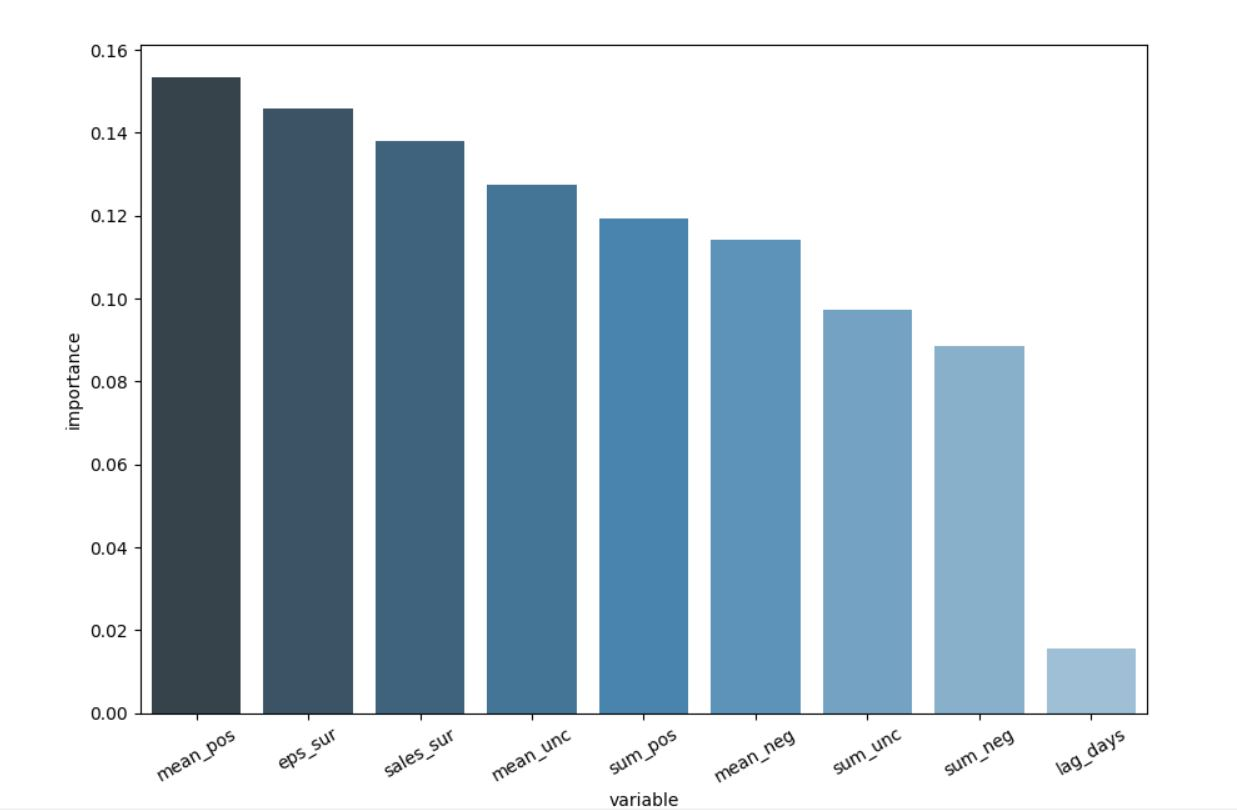
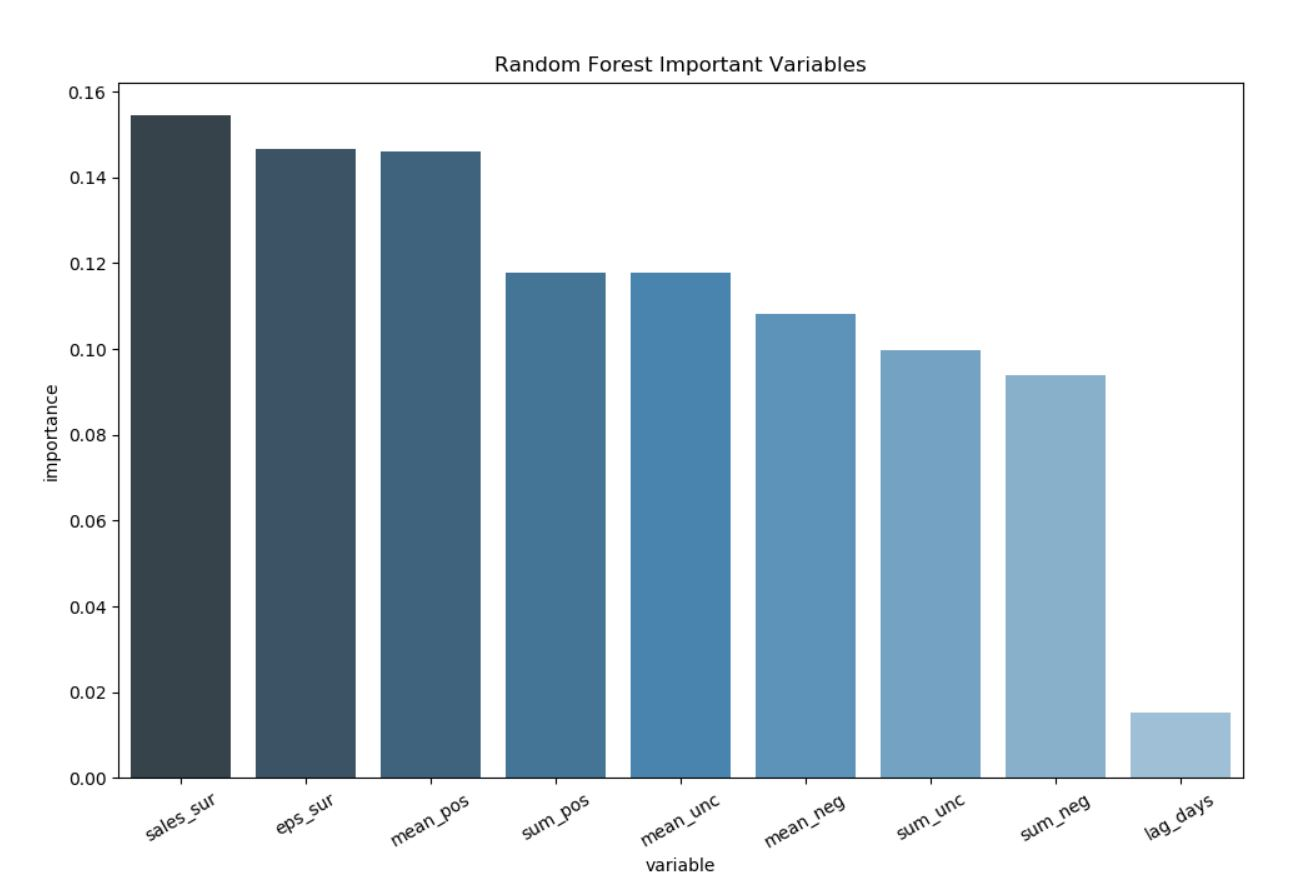
fix charts folder

Changed region(s): [[0.0307, 0.0309, 0.9523, 1.0], [0.215, 0.9259, 0.2458, 0.9568]]

diff --git a/Classifier/risk_analyzer.py b/Classifier/risk_analyzer.py
@@ -68,6 +68,7 @@ df_importances['importance'] = df_importances['importance'].astype(float)
 
 imp= sns.barplot(x= 'variable',y= 'importance', data= df_importances, palette= 'Blues_d')
 imp.set_xticklabels(imp.get_xticklabels(), rotation= 30)
+plt.title("Random Forest Important Variables")
 plt.show()
 
 
@@ -112,6 +113,7 @@ ax.scatter(X,Y, Z, c= 'r', marker= '+')
 ax.set_xlabel('Sales Beat')
 ax.set_ylabel('EPS Beat')
 ax.set_zlabel('Mean Positivity')
+plt.title("3D Scatter of Top 3 Importances")
 plt.show()
 
 
